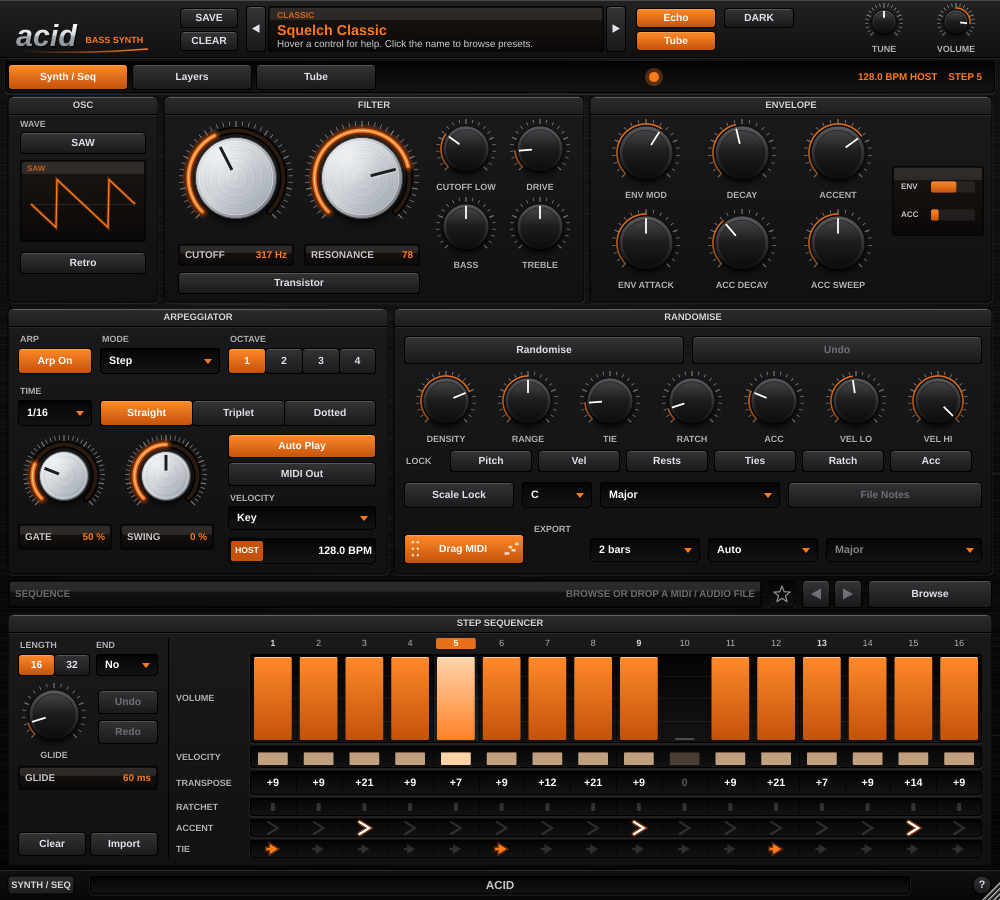
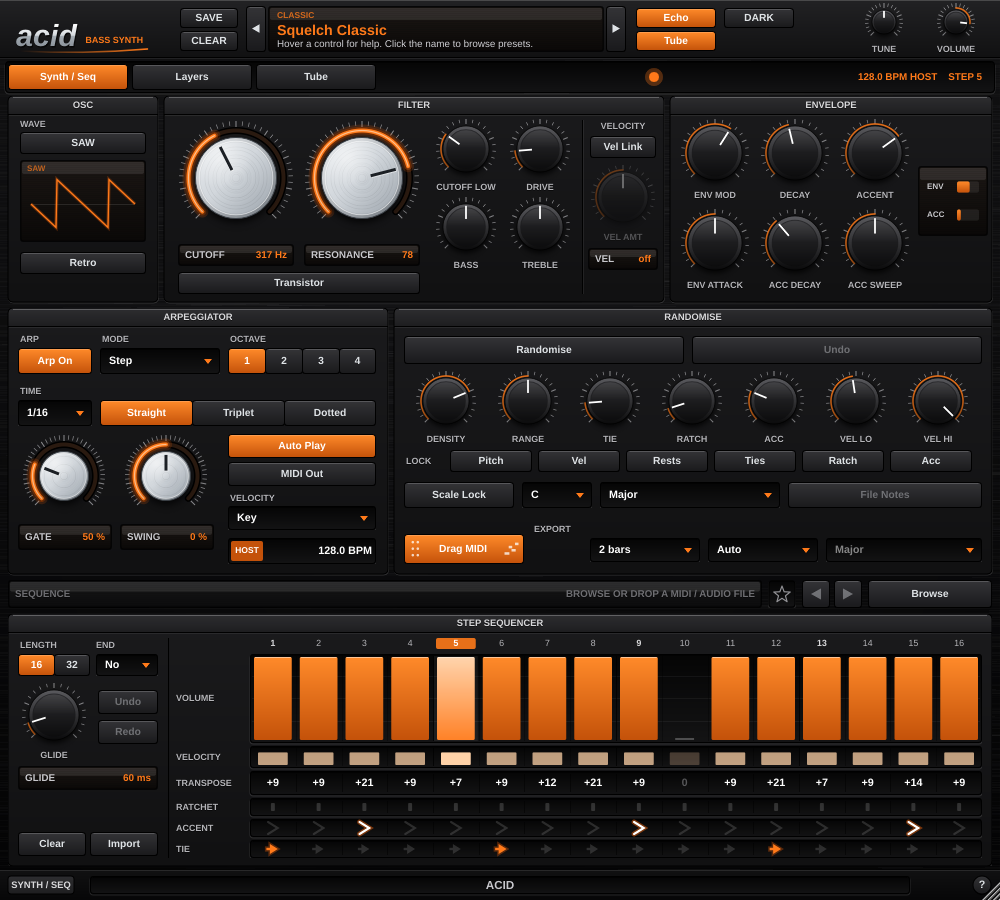
Add a Velocity section to the Filter (Vel Link)
Vel Link ties the cutoff to velocity and Vel Amt sets how far: while the
sequencer plays it follows each step's Velocity lane (in every velocity mode),
with the arp off it follows the keys. 127 leaves the cutoff, lower velocities
close it by up to 4 octaves at 100 %. A tied step slides the cutoff over the
Glide time together with the pitch. A readout shows the velocity in use.

Claude-Session: https://claude.ai/code/session_01HY2UoAkuZPz7TRU5Bv3s9z

Changed region(s): [[0.589, 0.0933, 0.992, 0.3422], [0.372, 0.0933, 0.434, 0.1244]]

diff --git a/src/PluginProcessor.cpp b/src/PluginProcessor.cpp
@@ -30,7 +30,8 @@ AcidAudioProcessor::AcidAudioProcessor()
     P.tune = get (tune);             P.volume = get (volume);        P.echoOn = get (echoOn);
     P.tubeOn = get (tubeOn);         P.wave = get (wave);            P.retro = get (retro);
     P.cutoffLow = get (cutoffLow);   P.cutoff = get (cutoff);        P.resonance = get (resonance);
-    P.transistor = get (transistor); P.bass = get (bass);            P.treble = get (treble);
+    P.transistor = get (transistor); P.bass = get (bass);
+    P.filterVelLink = get (filterVelLink); P.filterVelAmount = get (filterVelAmount);            P.treble = get (treble);
     P.drive = get (drive);           P.envMod = get (envMod);        P.decay = get (decay);
     P.accent = get (accent);         P.envAttack = get (envAttack);
     P.accDecay = get (accDecay);     P.accSweep = get (accSweep);    P.slideTime = get (slideTime);
@@ -438,6 +439,8 @@ void AcidAudioProcessor::updateSettings() noexcept
     v.accSweep        = norm100 (P.accSweep->load());
     v.drive           = norm100 (P.drive->load());
     v.transistor      = P.transistor->load() > 0.5f;
+    v.velLink         = P.filterVelLink->load() > 0.5f;
+    v.velAmount       = norm100 (P.filterVelAmount->load());
     v.oscBLevel       = norm100 (P.oscBLevel->load());
     v.oscBTuneSemis   = P.oscBTune->load();
     v.oscBDetuneCents = P.oscBDetune->load();
@@ -573,12 +576,16 @@ void AcidAudioProcessor::applyArpEvent (const as::arp::NoteEvent& e) noexcept
     using Type = as::arp::NoteEvent::Type;
     // loudness: the note's velocity scaled by the step's Volume (as in ArpSampler)
     const float level = (float) jlimit (0, 127, e.velocity) / 127.0f * (float) jlimit (0, 127, e.volume) / 127.0f;
+    // Vel Link follows the step's Velocity lane, whatever the velocity mode (as in ArpSampler)
+    const int laneVelocity = jlimit (1, 127, e.stepVelocity);
+    const float filterVelocity = (float) laneVelocity / 127.0f;
 
     switch (e.type)
     {
         case Type::Start:
             // mono: the newest note takes the voice (in Chord mode, the top note)
-            voice.noteOn (e.note, e.accent, false, level);
+            voice.noteOn (e.note, e.accent, false, level, filterVelocity);
+            gui.lastVelocity.store (laneVelocity);
             voiceArpId = e.id;
             for (auto& l : lfos) l.noteTriggered();
             break;
@@ -586,7 +593,10 @@ void AcidAudioProcessor::applyArpEvent (const as::arp::NoteEvent& e) noexcept
         case Type::Change:
             // a tie: glide to the new pitch over the Glide time, without retriggering
             if (e.id == voiceArpId)
-                voice.noteOn (e.note, e.accent, true, level);
+            {
+                voice.noteOn (e.note, e.accent, true, level, filterVelocity);
+                gui.lastVelocity.store (laneVelocity);
+            }
             break;
 
         case Type::Stop:
@@ -623,7 +633,9 @@ void AcidAudioProcessor::handleDirectMidi (const MidiMessage& msg) noexcept
         const bool legato = numHeldNotes > 0;
         remove (note);
         if (numHeldNotes < (int) heldNotes.size()) heldNotes[(size_t) numHeldNotes++] = note;
-        voice.noteOn (note, msg.getVelocity() >= 100, legato, (float) msg.getVelocity() / 127.0f);
+        const float velocity = (float) msg.getVelocity() / 127.0f;
+        voice.noteOn (note, msg.getVelocity() >= 100, legato, velocity, velocity);
+        gui.lastVelocity.store (msg.getVelocity());
         if (! legato)
             for (auto& l : lfos) l.noteTriggered();
     }

diff --git a/src/ui/pages/SynthPage.cpp b/src/ui/pages/SynthPage.cpp
@@ -25,6 +25,10 @@ SynthPage::SynthPage (AcidAudioProcessor& p) : PageBase (p), sequencer (p)
     attach (transistorButton, transistor);
     addAndMakeVisible (cutoffLcd);
     addAndMakeVisible (resoLcd);
+    attach (velLinkButton, filterVelLink);
+    attach (velAmountKnob, filterVelAmount);
+    addAndMakeVisible (velocityLcd);
+    setHelp (velocityLcd, "VELOCITY  -  the velocity Vel Link is following: the step's Velocity lane, or the key you played");
 
     // ENVELOPE
     attach (envModKnob, envMod);
@@ -42,8 +46,15 @@ SynthPage::SynthPage (AcidAudioProcessor& p) : PageBase (p), sequencer (p)
 void SynthPage::paint (Graphics& g)
 {
     AcidLookAndFeel::drawPanel (g, { 8.0f, 0.0f, 150.0f, 206.0f }, "Osc");
-    AcidLookAndFeel::drawPanel (g, { 164.0f, 0.0f, 420.0f, 206.0f }, "Filter");
-    AcidLookAndFeel::drawPanel (g, { 590.0f, 0.0f, 402.0f, 206.0f }, "Envelope");
+    AcidLookAndFeel::drawPanel (g, { 164.0f, 0.0f, 500.0f, 206.0f }, "Filter");
+    AcidLookAndFeel::drawPanel (g, { 670.0f, 0.0f, 322.0f, 206.0f }, "Envelope");
+
+    // the Velocity column of the Filter
+    g.setColour (Theme::get().bevelDark);
+    g.drawVerticalLine (582, 24.0f, 198.0f);
+    g.setColour (Colours::white.withAlpha (0.07f));
+    g.drawVerticalLine (583, 24.0f, 198.0f);
+    AcidLookAndFeel::drawSmallLabel (g, "Velocity", { 588.0f, 24.0f, 70.0f, 12.0f });
     AcidLookAndFeel::drawSmallLabel (g, "Wave", { 20.0f, 22.0f, 126.0f, 12.0f }, Justification::centredLeft);
 }
 
@@ -64,16 +75,19 @@ void SynthPage::resized()
     bassKnob.setBounds (430, 100, 72, 76);
     trebleKnob.setBounds (504, 100, 72, 76);
     transistorButton.setBounds (178, 176, 242, 22);
+    velLinkButton.setBounds (590, 40, 66, 22);
+    velAmountKnob.setBounds (586, 68, 74, 80);
+    velocityLcd.setBounds (588, 152, 70, 22);
 
     // ENVELOPE: Env Mod, Decay, Accent / Env Attack, Acc Decay, Acc Sweep, with the live meter
-    const int ex = 604, step = 96;
-    envModKnob.setBounds (ex, 22, 84, 84);
-    decayKnob.setBounds (ex + step, 22, 84, 84);
-    accentKnob.setBounds (ex + step * 2, 22, 84, 84);
-    envAttackKnob.setBounds (ex, 112, 84, 84);
-    accDecayKnob.setBounds (ex + step, 112, 84, 84);
-    accSweepKnob.setBounds (ex + step * 2, 112, 84, 84);
-    envMeter.setBounds (ex + step * 3, 70, 92, 70);
+    const int ex = 676, step = 80;
+    envModKnob.setBounds (ex, 22, 78, 84);
+    decayKnob.setBounds (ex + step, 22, 78, 84);
+    accentKnob.setBounds (ex + step * 2, 22, 78, 84);
+    envAttackKnob.setBounds (ex, 112, 78, 84);
+    accDecayKnob.setBounds (ex + step, 112, 78, 84);
+    accSweepKnob.setBounds (ex + step * 2, 112, 78, 84);
+    envMeter.setBounds (ex + step * 3 + 2, 70, 70, 70);
 
     sequencer.setBounds (0, 212, getWidth(), getHeight() - 212);
 }
@@ -88,6 +102,11 @@ void SynthPage::update()
     cutoffLcd.setContent ("CUTOFF", formatHz (cutoffToHz (value (ParamIDs::cutoff))));
     resoLcd.setContent ("RESONANCE", formatNumber (value (ParamIDs::resonance)));
     envMeter.setLevels (gui.filterEnv.load(), jlimit (0.0f, 1.0f, gui.accentCharge.load()));
+
+    const bool velLink = value (ParamIDs::filterVelLink) > 0.5f;
+    velAmountKnob.setEnabled (velLink);
+    velAmountKnob.setAlpha (velLink ? 1.0f : 0.4f);
+    velocityLcd.setContent ("VEL", velLink ? String (gui.lastVelocity.load()) : String ("off"));
 
     // modulation arcs where an LFO targets a knob
     float cutoffMod = 0.0f, resoMod = 0.0f;

diff --git a/tests/TestDsp.cpp b/tests/TestDsp.cpp
@@ -200,3 +200,46 @@ TEST_CASE ("LFO bar retrigger follows the song position", "[dsp][lfo]")
     lfo.process (out, 4, 0.0, 0.25, true, 2.0, ppqPerSample);   // one cycle per bar, at beat 2
     REQUIRE_THAT (out[0], Catch::Matchers::WithinAbs (0.0, 1.0e-3));   // halfway through the bar = 0 on a rising saw
 }
+
+TEST_CASE ("Vel Link: lower velocity closes the cutoff, 127 leaves it, a tie slides it", "[dsp][velocity]")
+{
+    const double sr = 48000.0;
+    auto cutoffAfter = [&] (bool link, float amount, float velocity)
+    {
+        Voice v;
+        v.prepare (sr);
+        VoiceSettings s;
+        s.envMod = 0.0f;
+        s.cutoffLowHz = 20000.0f;     // no envelope sweep: the cutoff sits on the knob
+        s.velLink = link;
+        s.velAmount = amount;
+        v.setSettings (s);
+        std::vector<float> l (480), r (480);
+        v.noteOn (48, false, false, 1.0f, velocity);
+        v.render (l.data(), r.data(), 480, {}, 0);
+        return v.getLastCutoffHz();
+    };
+
+    const float base = cutoffAfter (false, 1.0f, 0.2f);
+    REQUIRE (std::abs (cutoffAfter (true, 1.0f, 1.0f) - base) < base * 0.01f);         // 127: no change
+    const float closed = cutoffAfter (true, 1.0f, 0.0f);
+    REQUIRE (std::abs (std::log2 (base / closed) - 4.0f) < 0.05f);                     // 100 %: 4 octaves
+    const float half = cutoffAfter (true, 0.5f, 0.0f);
+    REQUIRE (std::abs (std::log2 (base / half) - 2.0f) < 0.05f);                        // 50 %: 2 octaves
+
+    // a tied (legato) step slides the cutoff to the new velocity instead of jumping
+    Voice v;
+    v.prepare (sr);
+    VoiceSettings s;
+    s.envMod = 0.0f; s.cutoffLowHz = 20000.0f; s.velLink = true; s.velAmount = 1.0f; s.slideMs = 60.0f;
+    v.setSettings (s);
+    std::vector<float> l (4800), r (4800);
+    v.noteOn (48, false, false, 1.0f, 1.0f);
+    v.render (l.data(), r.data(), 480, {}, 0);
+    const float open = v.getLastCutoffHz();
+    v.noteOn (50, false, true, 1.0f, 0.0f);
+    v.render (l.data(), r.data(), 96, {}, 0);          // 2 ms in: still near the old cutoff
+    REQUIRE (v.getLastCutoffHz() > open * 0.5f);
+    v.render (l.data(), r.data(), 4800, {}, 0);        // 100 ms later: arrived
+    REQUIRE (v.getLastCutoffHz() < open / 12.0f);
+}

diff --git a/src/dsp/Voice.h b/src/dsp/Voice.h
@@ -25,6 +25,8 @@ struct VoiceSettings
     float accSweep        = 0.3f;     // 0..1
     float drive           = 0.0f;     // 0..1
     bool  transistor      = false;
+    bool  velLink         = false;    // velocity moves the cutoff
+    float velAmount       = 0.5f;     // 0..1: how far (up to kVelocityOctaves)
 
     float oscBLevel       = 0.0f;     // 0..1
     float oscBTuneSemis   = 0.0f;
@@ -58,6 +60,7 @@ public:
     static constexpr int kMaxUnison = 8;
     static constexpr float kEnvModOctaves = 5.0f;
     static constexpr float kAccentOctaves = 2.5f;
+    static constexpr float kVelocityOctaves = 4.0f;   // Vel Link at 100 %: the lowest velocity closes this far
     static constexpr int kBaseNote = 36;          // C2: the lowest note of a pattern at octave 0
     static constexpr float kOutputTrim = 0.9f;    // output level (headroom for the tube and echo)
 
@@ -66,8 +69,9 @@ public:
     void setSettings (const VoiceSettings& s);
 
     /** legato = slide: glide to the new pitch without retriggering the envelopes.
-        level (0..1) scales the note's loudness (the sequencer's velocity x Volume). */
-    void noteOn (int midiNote, bool accent, bool legato, float level = 1.0f);
+        level (0..1) scales the note's loudness (the sequencer's velocity x Volume).
+        filterVelocity (0..1) drives Vel Link: 1 leaves the cutoff, lower closes it. */
+    void noteOn (int midiNote, bool accent, bool legato, float level = 1.0f, float filterVelocity = 1.0f);
     void noteOff();
     bool isGateOn() const noexcept { return gate; }
 
@@ -108,6 +112,7 @@ private:
     float smLow = 0.0f, smPeak = 0.0f, smRes = 0.0f, smMorph = 0.0f, smoothCoef = 1.0f;
     bool smoothersPrimed = false;
     float levelTarget = 1.0f, levelSm = 1.0f;
+    float velTarget = 1.0f, velSm = 1.0f;
     int activeVoices = 1;
     bool stereo = false;
 };

diff --git a/src/dsp/Voice.cpp b/src/dsp/Voice.cpp
@@ -67,10 +67,11 @@ void Voice::setSettings (const VoiceSettings& s)
     }
 }
 
-void Voice::noteOn (int midiNote, bool accent, bool legato, float level)
+void Voice::noteOn (int midiNote, bool accent, bool legato, float level, float filterVelocity)
 {
     targetNote = (float) midiNote;
     levelTarget = clampf (level, 0.0f, 1.0f);
+    velTarget = clampf (filterVelocity, 0.0f, 1.0f);   // a tied step glides to it, a new note jumps (below)
     accentNote = accent;
 
     if (accent)
@@ -80,6 +81,7 @@ void Voice::noteOn (int midiNote, bool accent, bool legato, float level)
         return;   // slide: the pitch glides, the envelopes carry on
 
     currentNote = targetNote;
+    velSm = velTarget;
     if (! ampEnv.isActive())
         levelSm = levelTarget;      // a fresh note starts at its own level (no fade from the last one)
     filterEnv.trigger (set.envAttackMs, accent ? set.accDecayMs : set.decayMs);
@@ -170,7 +172,10 @@ void Voice::render (float* left, float* right, int numSamples, const VoiceMod& m
         const float accentCv = accentCircuit.process (accentPulse);
         const float amp = ampEnv.process();
 
+        velSm += (velTarget - velSm) * glideCoef;      // a tied step: the cutoff slides with the pitch
         float logF = logLow + fEnv * (logPeak - logLow) + accentCv * kAccentOctaves;
+        if (set.velLink)
+            logF -= (1.0f - velSm) * kVelocityOctaves * set.velAmount;   // velocity 127 = no change
         if (mod.cutoffOct) logF += mod.cutoffOct[m];
         const float cutoff = clampf (std::exp2 (logF), 20.0f, maxCutoff);
         lastCutoffHz = cutoff;

diff --git a/src/Parameters.cpp b/src/Parameters.cpp
@@ -109,6 +109,8 @@ String helpForParameter (const String& id)
         { cutoff,      "Filter cutoff: where the resonant peak sits." },
         { resonance,   "Filter resonance. The diode model squelches but never whistles." },
         { transistor,  "Switch the filter from the diode ladder to a transistor ladder." },
+        { filterVelLink, "Vel Link: velocity moves the cutoff. The sequencer's Velocity lane when it plays, the keys otherwise." },
+        { filterVelAmount, "How far low velocities close the cutoff (100 % = up to 4 octaves at the lowest velocity; 127 = no change)." },
         { bass,        "Low shelf after the filter." },
         { treble,      "High shelf after the filter." },
         { drive,       "Asymmetric overdrive after the VCA." },
@@ -248,6 +250,8 @@ AudioProcessorValueTreeState::ParameterLayout createParameterLayout()
     knob (cutoff,    "Cutoff",     45.0f);
     knob (resonance, "Resonance",  65.0f);
     toggle (transistor, "Transistor", false);
+    toggle (filterVelLink, "Filter Velocity Link", false);
+    knob (filterVelAmount, "Filter Velocity Amount", 50.0f);
     number (bass,   "Bass",   -12.0f, 12.0f, 0.0f);
     number (treble, "Treble", -12.0f, 12.0f, 0.0f);
     knob (drive,     "Drive",      15.0f);

diff --git a/src/PluginProcessor.h b/src/PluginProcessor.h
@@ -125,6 +125,7 @@ public:
         std::atomic<float> lfoPhase[2] { 0.0f, 0.0f };
         std::atomic<float> bandLevel[3] { 0.0f, 0.0f, 0.0f };
         std::atomic<bool>  gateOn { false };
+        std::atomic<int>   lastVelocity { 127 };   // what Vel Link used for the last note
         std::atomic<int>   editorWidth { 0 };
         std::atomic<bool>  lightTheme { false };
         std::atomic<int>   page { 0 };
@@ -198,7 +199,7 @@ private:
     struct ParamPointers
     {
         std::atomic<float> *tune, *volume, *echoOn, *tubeOn, *wave, *retro, *cutoffLow, *cutoff, *resonance,
-            *transistor, *bass, *treble, *drive, *envMod, *decay, *accent, *envAttack, *accDecay, *accSweep, *slideTime,
+            *transistor, *filterVelLink, *filterVelAmount, *bass, *treble, *drive, *envMod, *decay, *accent, *envAttack, *accDecay, *accSweep, *slideTime,
             *arpOn, *arpMode, *arpRate, *arpRateType, *arpGate, *arpSwing, *arpOctave, *velMode, *bpm, *autoPlay,
             *midiOut, *seqLength, *seqEnd, *scaleKey, *scale, *scaleLock,
             *oscBLevel, *oscBTune, *oscBDetune, *unisonVoices, *unisonSpread, *unisonFree,

diff --git a/src/ui/pages/SynthPage.h b/src/ui/pages/SynthPage.h
@@ -23,6 +23,11 @@ private:
     juce::TextButton transistorButton { "Transistor" };
     InfoLcd cutoffLcd, resoLcd;
 
+    // FILTER > VELOCITY: velocity (the sequencer's Velocity lane) moves the cutoff
+    juce::TextButton velLinkButton { "Vel Link" };
+    AcidKnob velAmountKnob { AcidKnob::Size::Small, "Vel Amt" };
+    InfoLcd velocityLcd;
+
     // ENVELOPE
     AcidKnob envModKnob { AcidKnob::Size::Small, "Env Mod" }, decayKnob { AcidKnob::Size::Small, "Decay" };
     AcidKnob accentKnob { AcidKnob::Size::Small, "Accent" };

diff --git a/src/Parameters.h b/src/Parameters.h
@@ -33,6 +33,8 @@ namespace ParamIDs
     inline constexpr auto cutoff      = "cutoff";
     inline constexpr auto resonance   = "resonance";
     inline constexpr auto transistor  = "transistor";
+    inline constexpr auto filterVelLink   = "filterVelLink";
+    inline constexpr auto filterVelAmount = "filterVelAmount";
     inline constexpr auto bass        = "bass";
     inline constexpr auto treble      = "treble";
     inline constexpr auto drive       = "drive";

diff --git a/README.md b/README.md
@@ -41,7 +41,7 @@ step sequencer. Acid's **Glide** stays: it's in the Step Sequencer panel.
 | Section | Controls |
 |---|---|
 | **Osc** | Wave (Saw / Square, the square shaped from the saw 303-style), wave display, **Retro** (slow pitch drift, per-note variation, softer top end) |
-| **Filter** | **Cutoff** and **Resonance** (large), **Cutoff Low** (the floor the envelope falls back to), Drive, Bass, Treble, **Transistor** (diode ladder by default, or a transistor ladder) |
+| **Filter** | **Cutoff** and **Resonance** (large), **Cutoff Low** (the floor the envelope falls back to), Drive, Bass, Treble, **Transistor** (diode ladder by default, or a transistor ladder). **Velocity**: **Vel Link** ties the cutoff to velocity, **Vel Amt** sets how far (see below) |
 | **Envelope** | Env Mod, Decay, Accent, Env Attack, Acc Decay, **Acc Sweep** (consecutive accents build the cutoff up), live ENV / ACC meter |
 | **Arpeggiator** | Arp On, Mode (Up, Down, Up/Down, Up/Down2, Down/Up, Down/Up2, Random, Ordered, **Step**, Chord), Octave 1-4, Time (1/2-1/32, Straight / Triplet / Dotted), Gate 1-200 %, Swing -100 to +100 %, Velocity mode (Key, Hold, Step, Step+Key, Step+Hold), **Auto Play**, **MIDI Out**, Tempo (host, or the internal BPM) |
 | **Randomise** | Randomise / Undo, Density, Range, Tie, Ratch, Acc, Vel Lo, Vel Hi, Lock Pitch / Vel / Rests / Ties / Ratch / Acc, **Scale Lock** with Key and 16 scales, **File Notes**, **Drag MIDI** with length (1-8 bars), root and chord |
@@ -90,6 +90,12 @@ step). Double-click resets to the default. The window (1000 x 900 at 100 %) resi
   and the **Acc Sweep** build-up.
 * Loudness is the note's velocity (from the Velocity mode) times the step's **Volume**.
   **Volume 0** is a rest.
+* **Vel Link** (Filter > Velocity): while the sequencer plays, the cutoff follows each step's
+  **Velocity** lane, in every velocity mode. So you can keep the loudness on the keys and use
+  the lane purely for filter movement. With the arp off it follows the keys you play.
+  Velocity 127 leaves the cutoff where it is; lower velocities close it, by up to 4 octaves
+  at 100 % Vel Amt. A tied step slides its cutoff to the new value over the Glide time,
+  together with the pitch.
 * **MIDI Out** sends the notes (the Velocity lane as velocity, the Volume lane as CC11) to
   drive another instrument. **Drag MIDI** renders the same notes into a clip.
 * With **Arp On** off, MIDI plays the synth directly. Last-note priority; overlapping notes

diff --git a/DECISIONS.md b/DECISIONS.md
@@ -81,6 +81,9 @@ playable acid sound.
 - Acid is monophonic: Start events retrigger the voice, Change events (ties) glide without
   retriggering, and a Stop only ends the note that still owns the voice. In Chord mode the
   newest (top) note plays.
+- **Vel Link** works like ArpSampler's filter Vel Link: the step's Velocity lane (any
+  velocity mode) or the key velocity, 127 = no change, down to -4 octaves at 100 %. In Acid a
+  tie slides the cutoff over the Glide time (with the pitch) rather than a fixed smoothing.
 - **Accent** drives Acid's accent circuit. Loudness = velocity x the step's Volume, as in ArpSampler.
 - **Base octave**: transpose 0 plays the Key's root at C1 (MIDI 36), not ArpSampler's C3,
   because Acid is a bass synth. Auto Play, Drag MIDI's Auto root and MIDI / audio import all
